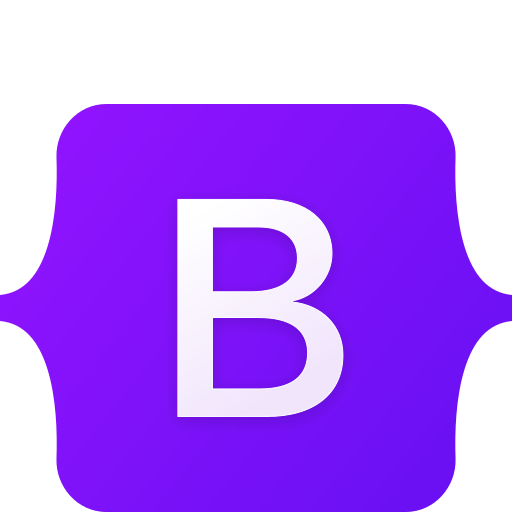
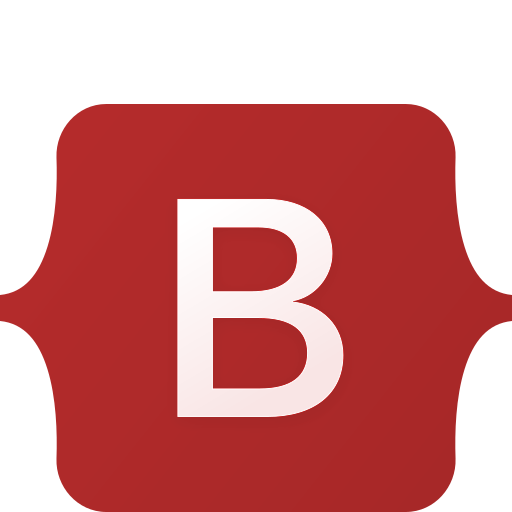
Cambio colore icone competenze

diff --git a/assets/css/home.css b/assets/css/home.css
@@ -72,7 +72,7 @@ hr:not([size]) {
 
 .competence-icon{
   width: 20%;
-  opacity: 90%;
+  opacity: 80%;
 }
 
 /*-------Curriculum-----*/
